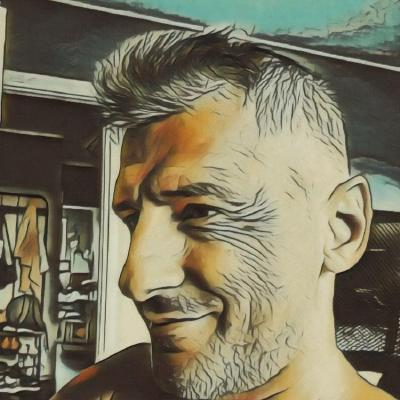
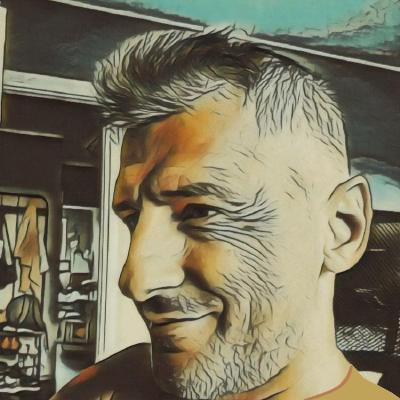
refactor: change test photos to real photos

Changed region(s): [[0.75, 0.9, 0.93, 1.0], [0.93, 0.96, 1.0, 1.0]]

diff --git a/about.html b/about.html
@@ -23,7 +23,7 @@
           <a href="/index.html" class="nav-link">Home</a>
           <a href="/about.html" class="nav-link">About me</a>
           <a href="#experience" class="nav-link">Experience</a>
-          <a href="#" class="nav-link">Blog</a>
+          <a href="#" class="nav-link blog">Blog</a>
           <a href="/contact.html" class="nav-link">Contact</a>
         </div>
         <div class="burg-main">
@@ -144,13 +144,13 @@
                   <div class="skill-wrap">
                     <div class="skill-bar-single">
                       <div class="skill-bar-title">
-                        <p>Team Leadership</p>
-                        <span class="percent-value">100%</span>
+                        <p>Teamwork</p>
+                        <span class="percent-value">95%</span>
                       </div>
                       <div class="skill-bar-wrapper">
                         <div class="skill-bar">
                           <div
-                            class="skill-bar-percent" data-percent="100"
+                            class="skill-bar-percent" data-percent="95"
                           ></div>
                         </div>
                       </div>
@@ -170,13 +170,13 @@
                     </div>
                     <div class="skill-bar-single">
                       <div class="skill-bar-title">
-                        <p>Program Frameworks</p>
-                        <span class="percent-value">70%</span>
+                        <p>Frameworks</p>
+                        <span class="percent-value">75%</span>
                       </div>
                       <div class="skill-bar-wrapper">
                         <div class="skill-bar">
                           <div
-                            class="skill-bar-percent" data-percent="70"
+                            class="skill-bar-percent" data-percent="75"
                           ></div>
                         </div>
                       </div>
@@ -235,7 +235,7 @@
           </div>
           <div class="container__expir hidden-block">
             <div class="expir">
-              <span>2022 - 2022</span>
+              <span>2024 - now</span>
               <h4>Node.js course</h4>
               <p>The Rolling Scopes</p>
               <p>
@@ -246,7 +246,7 @@
               </p>
             </div>
             <div class="expir">
-              <span>2021 - 2021</span>
+              <span>2022 - 2023</span>
               <h4>React course</h4>
               <p>The Rolling Scopes</p>
               <p>
@@ -256,7 +256,7 @@
               </p>
             </div>
             <div class="expir">
-              <span>2021 - 2021</span>
+              <span>2021 - 2022</span>
               <h4>JavaScript/Front-end course</h4>
               <p>The Rolling Scopes</p>
               <p>
@@ -288,7 +288,7 @@
             </div>
             <div class="expir hidden">
               <span>2021 - 2023</span>
-              <h4>FullStack developer</h4>
+              <h4>Frontend developer</h4>
               <p>Oktan</p>
               <p>
                 Continued work on creating and automating online
@@ -299,7 +299,7 @@
             </div>
             <div class="expir hidden">
               <span>2018 - 2021</span>
-              <h4>FullStack developer</h4>
+              <h4>FullStack e-commerce developer</h4>
               <p>Novyj</p>
               <p>
                 I was responsible for fully automating online stores, 
@@ -312,7 +312,7 @@
             <div class="expir hidden">
               <span>2016 - 2018</span>
               <h4>Web developer</h4>
-              <p>Freelancer</p>
+              <p>Freelance</p>
               <p>
                 Creation and support of the first business card websites 
                 and online stores using the then popular CMS Joomla in 

diff --git a/index.html b/index.html
@@ -24,7 +24,7 @@
             <a href="/index.html" class="nav-link">Home</a>
             <a href="/about.html" class="nav-link">About me</a>
             <a href="#caseStudy" class="nav-link">Case study</a>
-            <a href="#" class="nav-link">Blog</a>
+            <a href="#" class="nav-link blog">Blog</a>
             <a href="/contact.html" class="nav-link">Contact</a>
           </div>
           <div class="burg-main">
@@ -59,7 +59,7 @@
               <div class="content__center-left">
                 <div class="content__center-left__wrap">
                   <div class="content__center-left__cart">
-                    <img src="./photo-2024.jpg" alt="myImg" class="myImg">
+                    <img src="./23-54-50.jpg" alt="myImg" class="myImg">
                     <h3 class="name-dev">Ashot Bagiran</h3>
                     <p>
                       <i class="fa-solid fa-briefcase"></i>Theme Frontend
@@ -392,7 +392,7 @@
                 <div class="content__center-center__info hidden-block3">
                   <p class="about-me"></p>
                   <div class="hidden-block">
-                    <img src="photo_44.jpg" class="bn-blog" alt="shape">
+                    <img src="234542.jpg" class="bn-blog" alt="shape">
                   </div>
                   <div class="awards">
                     <h3>Principles</h3>
@@ -430,7 +430,7 @@
                       <div class="specialisation">
                         Online stores on Opencart CMS
                       </div>
-                      <div class="work-experience">Oktan</div>
+                      <div class="work-experience">Novyj</div>
                     </div>
                   </div>
                 </div>

diff --git a/src/index.js b/src/index.js
@@ -18,7 +18,10 @@ import currentPage from '../index/currentpage.js';
 import currentYear from '../index/currentyear.js';
 import getSizeOfTheWindow from '../index/windowsize.js';
 import manageToBurgerMenu from '../index/manageBurger.js';
-import { openOrCloseBurgerWindow, choseBurgerLink } from '../index/manageBurger.js';
+import {
+  openOrCloseBurgerWindow,
+  choseBurgerLink,
+} from '../index/manageBurger.js';
 
 powerLoader();
 window.onscroll = function () {
@@ -59,4 +62,10 @@ document.addEventListener('DOMContentLoaded', () => {
   choseBurgerLink();
 });
 
-
+document
+  .querySelector('.blog')
+  .addEventListener('click', () =>
+    alert(
+      'Friends, a little patience, this block will appear soon. Thanks for understanding.'
+    )
+  );

diff --git a/contact.html b/contact.html
@@ -23,7 +23,7 @@
           <a href="/index.html" class="nav-link">Home</a>
           <a href="/about.html" class="nav-link">About me</a>
           <a href="./index/#caseStudy" class="nav-link">Case study</a>
-          <a href="#" class="nav-link">Blog</a>
+          <a href="#" class="nav-link blog">Blog</a>
           <a href="/contact.html" class="nav-link">Contact</a>
         </div>
         <div class="burg-main">

diff --git a/style.css b/style.css
@@ -1286,6 +1286,10 @@ input:focus {
   border-bottom: 1px solid #ede5e5;
 }
 
+.motto span {
+  font-weight: 700;
+}
+
 .text-septenary {
   color: #414141;
   padding: 45px 0;
@@ -1483,6 +1487,10 @@ pre {
   text-align: center;
   color: #181818;
   margin-bottom: 20px;
+}
+
+.title-animation span {
+  font-weight: 700;
 }
 
 .text-separation {

diff --git a/contact/showcontact.js b/contact/showcontact.js
@@ -1,6 +1,6 @@
-export default function showContact(item, idName) {
+export default function showContact(item, idname) {
     const text = item;
-    const textContainer = document.getElementById(idName);
+    const textContainer = document.getElementById(idname);
     textContainer.textContent = '';
     const arr = text.split('');
   

diff --git a/src/about.js b/src/about.js
@@ -52,3 +52,11 @@ document.addEventListener('DOMContentLoaded', () => {
   manageToBurgerMenu();
   choseBurgerLink();
 });
+
+document
+  .querySelector('.blog')
+  .addEventListener('click', () =>
+    alert(
+      'Friends, a little patience, this block will appear soon. Thanks for understanding.'
+    )
+  );

diff --git a/src/contact.js b/src/contact.js
@@ -54,3 +54,10 @@ document.addEventListener('DOMContentLoaded', () => {
   choseBurgerLink();
 });
 
+document
+  .querySelector('.blog')
+  .addEventListener('click', () =>
+    alert(
+      'Friends, a little patience, this block will appear soon. Thanks for understanding.'
+    )
+  );

diff --git a/styles/introduction.css b/styles/introduction.css
@@ -19,7 +19,7 @@
   opacity: 0;
   transform: translateX(40px);
   animation: fadeInOut 1s forwards;
-  font-weight: 500;
+  /* font-weight: 500; */
 }
 
 @keyframes fadeInOut {
